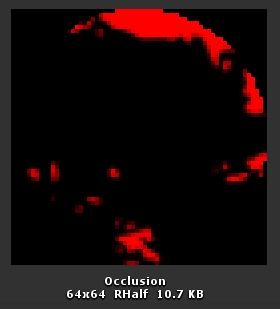
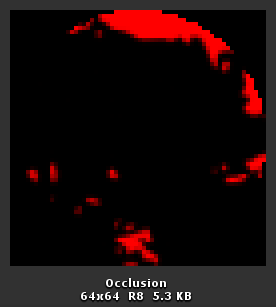
Update images and text for 'Simple GPU Occlusion for Lens Flares' post

diff --git a/2019/06/26/simple-gpu-occlusion-for-lens-flares/index.html b/2019/06/26/simple-gpu-occlusion-for-lens-flares/index.html
@@ -48,7 +48,7 @@
 
 <meta itemprop="datePublished" content="2019-06-26T22:14:11&#43;02:00" />
 <meta itemprop="dateModified" content="2019-06-26T22:14:11&#43;02:00" />
-<meta itemprop="wordCount" content="829">
+<meta itemprop="wordCount" content="958">
 
 
 
@@ -364,6 +364,13 @@ And now is the sweetest part: <a href="http://dotsquid.com/LensFlaresDemoBuild/"
 Have fun.
 </div>
 <div class="document-space" ></div></p>
+
+<h4 id="update-14-jan-2020">Update [14 Jan 2020]</h4>
+
+<p>Regarding the texture format of the occlusion culling. Initially I used RFloat (R32_SFLOAT), but it appeared that not all GPUs/drivers (mainly mobile ones) support mipmap generation for this format.<br />
+Then I decided to try RHalf (R16_SFLOAT), since according to <a href="https://www.khronos.org/registry/OpenGL/specs/es/3.0/es_spec_3.0.pdf" target="_blank">OpenGL ES3.0</a> (pages 130-132) and <a href="https://developer.apple.com/metal/Metal-Feature-Set-Tables.pdf" target="_blank">Metal</a> (pages 6-7) specifications this format supports filtering, thus should work with mipmap generation. Unfortunately, in some cases (e.g. on AppleTV 4g) it still did not work.<br />
+So I ended up with R8 which on one hand should be (I hope) supported by majority of GPUs and on another hand should be enough with its 256 possible values.<br />
+Also the more advanced solution probably would be to check whether the GPU supports a given texture format by using <a href="https://docs.unity3d.com/ScriptReference/SystemInfo.IsFormatSupported.html" target="_blank">SystemInfo.IsFormatSupported</a> with FormatUsage.Linear.</p>
             </div>
             <footer class="article-footer">
     <a data-url="http://dotsquid.com/2019/06/26/simple-gpu-occlusion-for-lens-flares/" data-id="202d4168a1f122f5a27743f3188b3d01" class="article-share-link">
